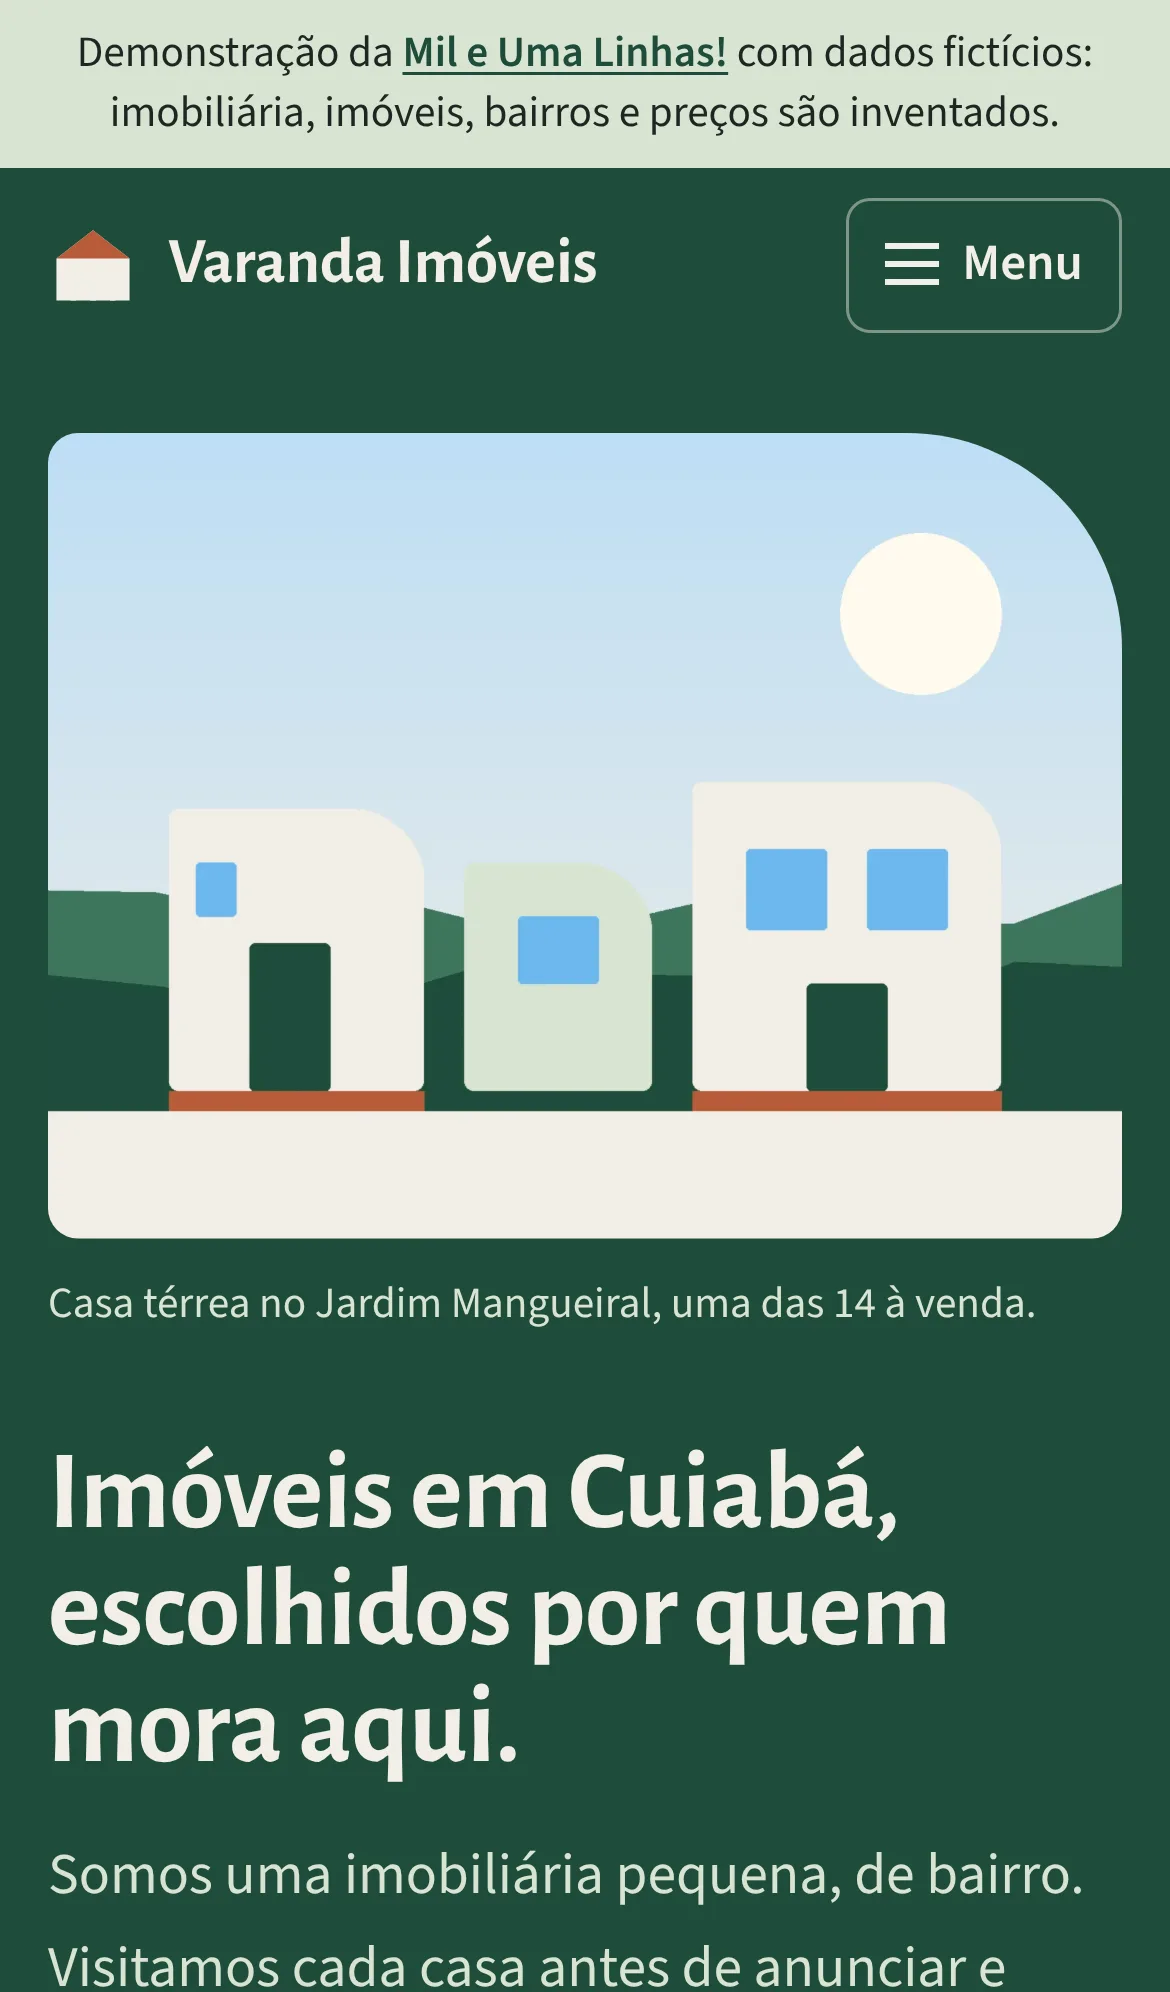
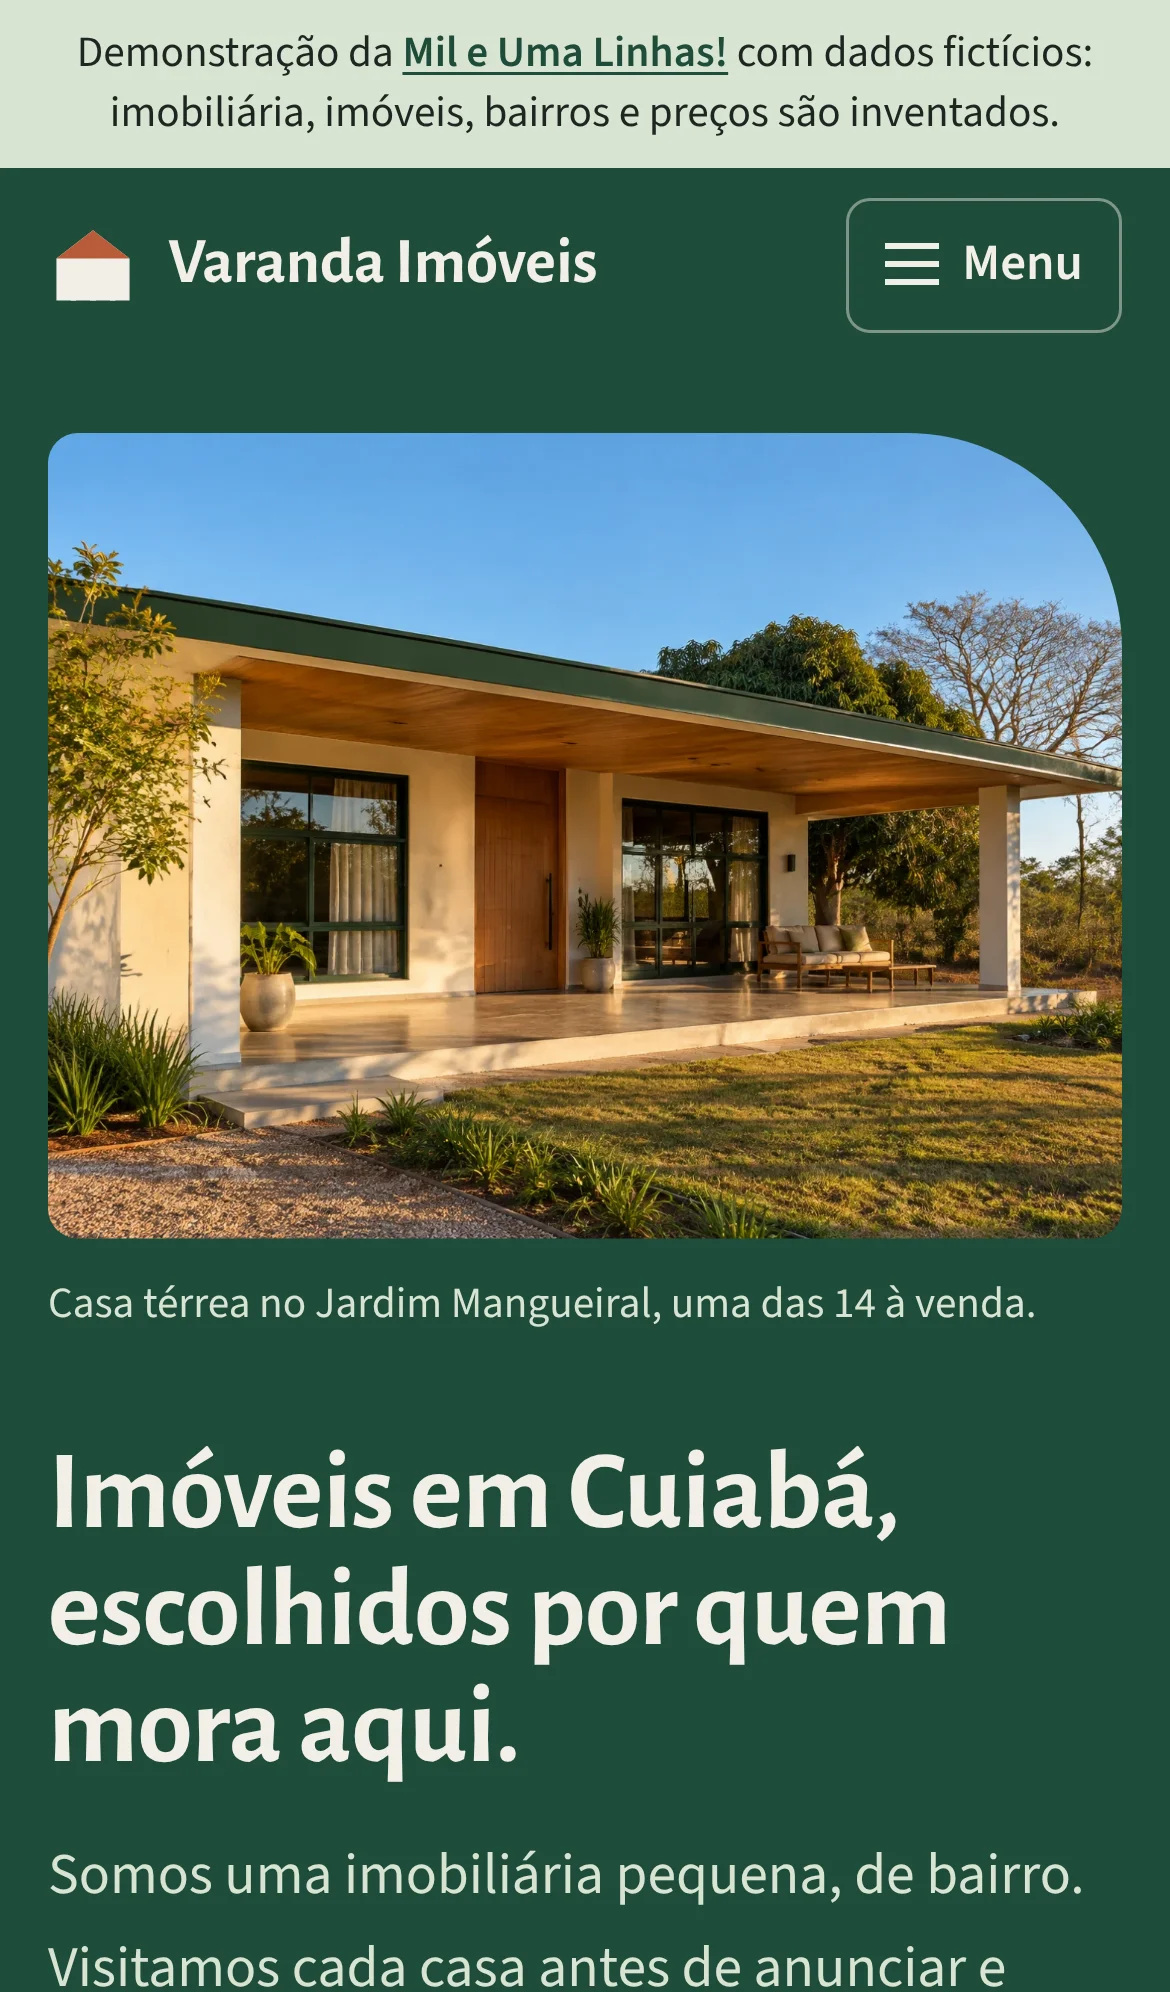
Foto de hero gerada no Canva troca a provisória
Troca img/hero.webp pela foto gerada por IA no Canva (cena da
profissão, sem texto e sem pessoas reais), ajusta largura, altura e
texto alternativo da imagem no index.html, atualiza as capturas de
tela (docs/capa-desktop.webp e docs/capa-celular.webp) e corrige no
README e em docs/identidade.md os trechos que diziam que a imagem era
provisória. Testes em 1280x900, iPhone 13 e 320px sem erro de console
nem rolagem horizontal.

Claude-Session: https://claude.ai/code/session_015DVsuVad392kn1wvAjF541

diff --git a/index.html b/index.html
@@ -75,7 +75,7 @@
           <p class="hero-nota"><span id="hero-total">14</span> imóveis à venda em 6 bairros. Todos visitados pela nossa equipe.</p>
         </div>
         <figure class="hero-figura">
-          <img class="hero-foto" src="img/hero.webp" width="1600" height="1200" alt="Casa térrea com varanda ampla em fim de tarde, com o cerrado ao fundo" fetchpriority="high">
+          <img class="hero-foto" src="img/hero.webp" width="1440" height="1080" alt="Casa térrea com varanda ampla e telhado verde no fim da tarde, com o cerrado ao fundo. Imagem gerada por IA, ilustrativa." fetchpriority="high">
           <figcaption class="hero-legenda">Casa térrea no Jardim Mangueiral, uma das 14 à venda.</figcaption>
         </figure>
       </div>

diff --git a/README.md b/README.md
@@ -42,7 +42,7 @@ O estudo completo está em [`docs/identidade.md`](docs/identidade.md), inclusive
 - **Forma:** o "canto de telhado", um único canto grande arredondado no alto à direita de cartões, formulários e da foto do hero. É a silhueta de uma casa com beiral.
 - **Fontes:** Alegreya Sans nos títulos e preços (humanista, traço caligráfico, lembra letreiro pintado) e Source Sans 3 no texto e nos formulários (neutra, ótima em tela pequena). As duas são locais, em `fonts/`, com licença SIL OFL.
 - **Movimento:** só um momento orquestrado na abertura (a foto se revela e o texto sobe) e respostas às ações. Com "reduzir movimento" ligado no aparelho, nada se mexe.
-- **Imagens:** a foto do hero e as fotos dos imóveis são provisórias, geradas em Python nas cores da identidade, até eu trocar pelas fotos finais.
+- **Imagens:** a foto do hero é uma foto gerada por IA no Canva (ilustrativa, não é uma obra real). As fotos dos 14 imóveis ainda são provisórias, geradas em Python nas cores da identidade, até eu trocar pelas fotos finais.
 
 ## Como funciona por dentro (em linguagem comum)
 
